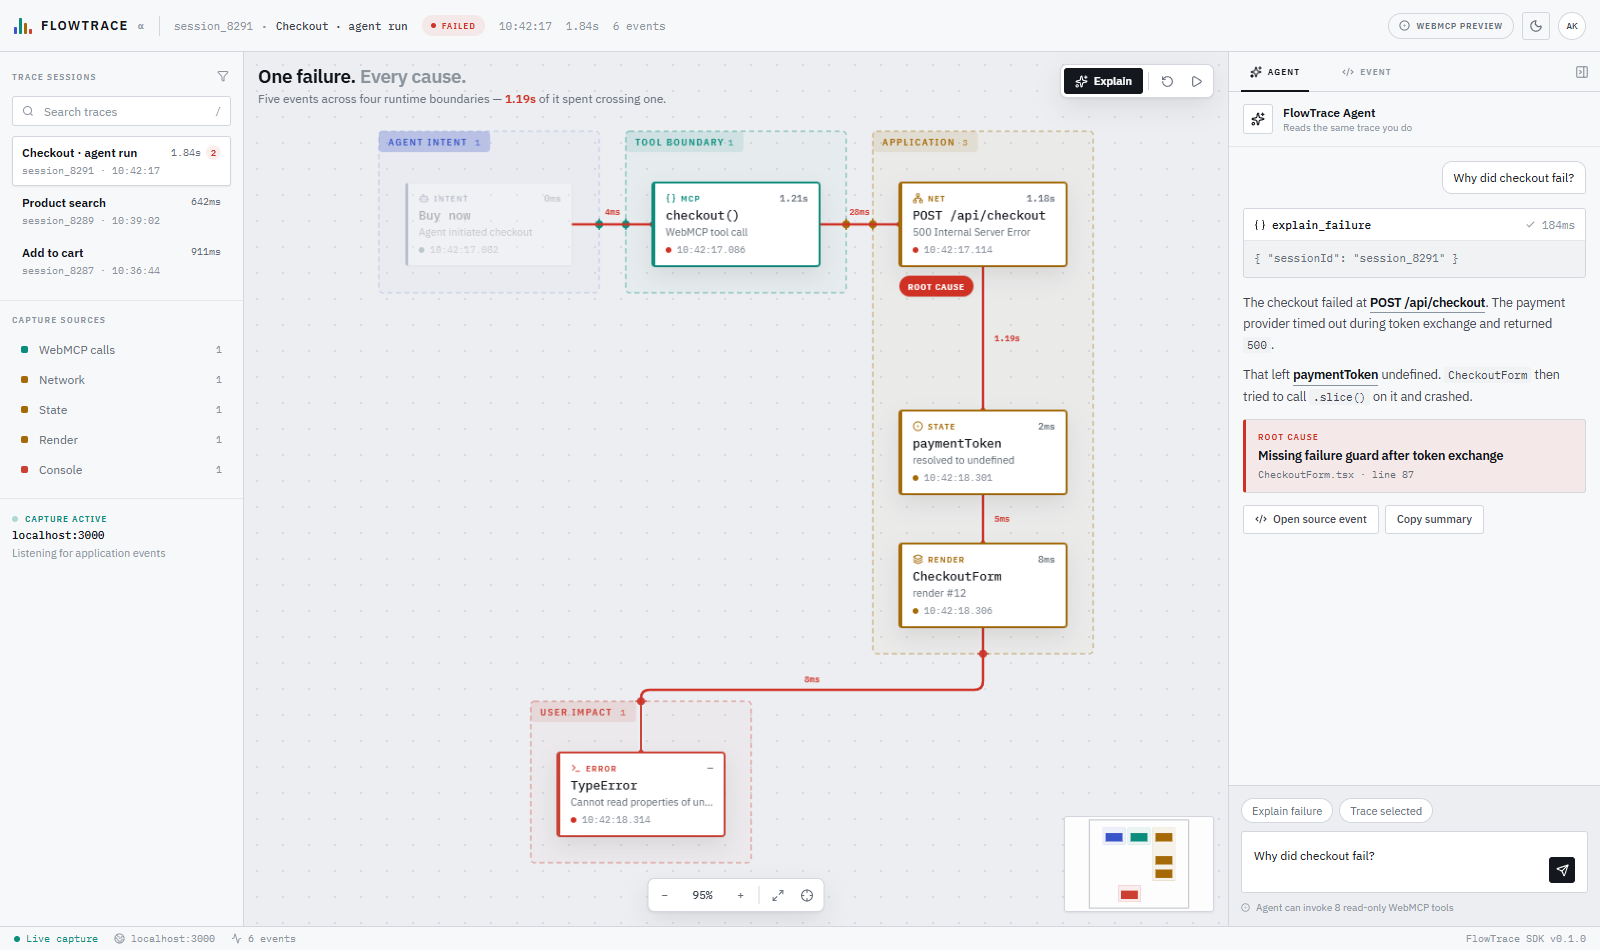
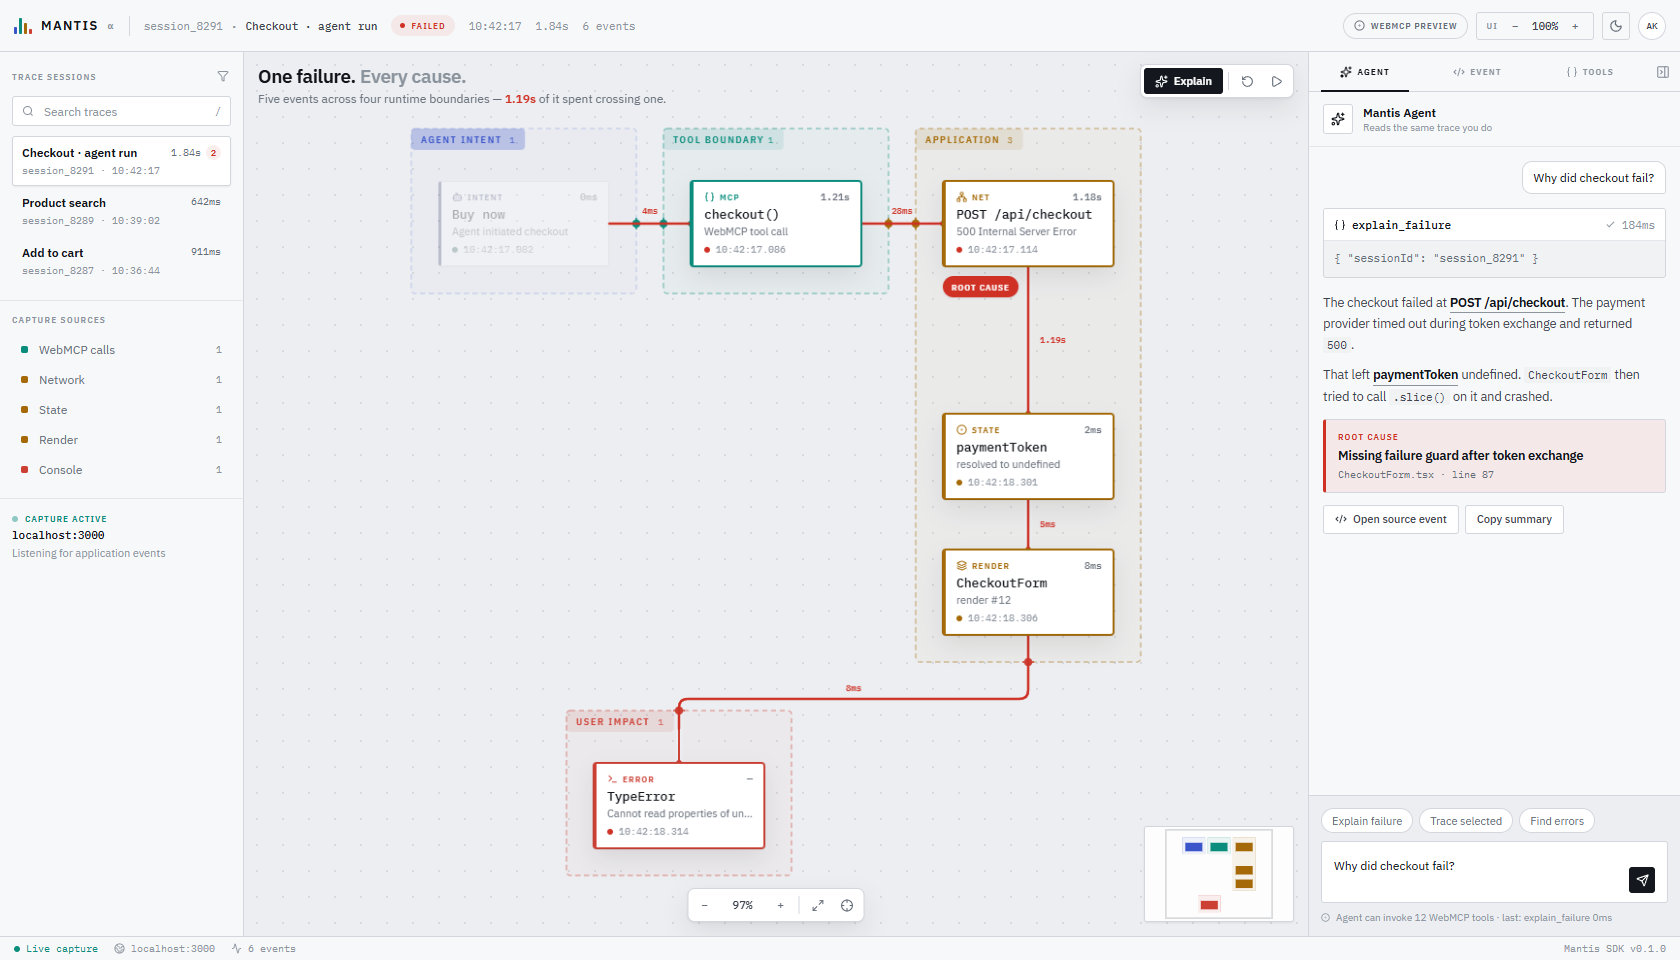
docs: present the repo for readers who arrive cold
Leads with the problem, the live demo and a screenshot, then the WebMCP surface
— which is the point of the project and was buried three sections down.

Corrects stale facts the rename and the WebMCP work left behind: twelve tools,
not eight, and no longer read-only now that four of them write UI state.
Regenerates all three screenshots, which still carried the old branding, and
adds a file-by-file map so the interesting code is findable.

diff --git a/README.md b/README.md
@@ -1,35 +1,51 @@
+<div align="center">
+
 # Mantis
 
 ### A shared debugging environment for humans and agents
 
-Mantis turns disconnected browser telemetry into one causal graph. Developers get a visual timeline; AI agents get structured, read-only WebMCP tools over the exact same trace.
+**[▶ Live demo](https://flowtrace-mu.vercel.app)** · [WebMCP tools](#the-webmcp-surface) · [How the integration works](#how-the-integration-works) · [Evals](#evals)
 
-![The Mantis canvas](preview-dark.png)
+[![WebMCP](https://img.shields.io/badge/WebMCP-12_tools-0a8d7d)](#the-webmcp-surface)
+[![Tests](https://img.shields.io/badge/tests-24_passing-3a54c9)](#evals)
+[![License](https://img.shields.io/badge/license-MIT-666)](LICENSE)
 
-When an agent calls `explain_failure`, Mantis returns machine-readable causes and simultaneously focuses those events in the UI:
+</div>
+
+---
+
+When an agent breaks your app, it can see its own tool call and nothing else. The
+network request it triggered, the state that went undefined, the component that
+crashed — all invisible. You get a screenshot and a shrug.
+
+Mantis turns disconnected browser telemetry into one causal graph. Developers get
+a spatial canvas; agents get the exact same trace through WebMCP.
 
 ```text
 WebMCP checkout() → POST /api/checkout → HTTP 500
                   → paymentToken undefined → CheckoutForm crash
 ```
 
-## What is working
+![The Mantis canvas, with the agent's causal chain lit](preview-dark.png)
 
-- Interactive causal graph spanning agent intent, WebMCP, network, state, render, and console events
-- Synchronized agent/UI focus through stable event IDs and `mantis:focus` browser events
-- Eight real WebMCP tools registered with `document.modelContext.registerTool`
-- Built-in checkout-failure demo with replay, source filters, event inspection, and agent explanation
-- Read-only tool annotations and strict JSON Schemas
-- Browser-safe preview API for environments where experimental WebMCP is unavailable
-- Light and dark themes that follow the OS until you pick one, then remember the choice
-- An interface scale (Alt +, Alt −, Alt 0) that resizes the whole shell independently of the canvas's own zoom, and re-frames the trace when it changes
-- A spatial canvas you can pan, zoom, and rearrange: runtime boundaries are drawn as enclosures, and dragging a node grows its boundary rather than escaping it
-- Boundary ports — every hop that crosses a runtime boundary punches through the enclosure wall at a marked port, carrying the latency of that crossing
-- Responsive, keyboard-focusable developer interface
+## The idea
 
-## WebMCP tools
+Mantis's claim is that it correlates causality **across runtime boundaries**, so
+the canvas draws those boundaries as physical enclosures. Every hop that crosses
+one punches through the enclosure wall at a marked **port**, carrying the latency
+of that crossing. Boundary-crossing stops being a label and becomes something you
+can see.
 
-### Read-only (`readOnlyHint: true`)
+Colour follows the boundary, not the event type: a temperature ramp from agent
+intent (cool) to user impact (hot), so a failure literally arrives at the warm
+end of the canvas.
+
+## The WebMCP surface
+
+Twelve tools registered through `document.modelContext`, split by what they are
+allowed to do.
+
+### Read-only — `readOnlyHint: true`
 
 | Tool | Purpose |
 | --- | --- |
@@ -42,7 +58,7 @@ WebMCP checkout() → POST /api/checkout → HTTP 500
 | `filter_events` | Filter by network, console, WebMCP, state, render, or user events |
 | `inspect_webmcp_call` | Inspect an agent tool call and everything it triggered |
 
-### Writes UI state (`readOnlyHint: false`)
+### Writes UI state — `readOnlyHint: false`
 
 | Tool | Purpose |
 | --- | --- |
@@ -51,14 +67,21 @@ WebMCP checkout() → POST /api/checkout → HTTP 500
 | `frame_trace` | Fit the causal graph to view, or restore the authored layout |
 | `replay_session` | Step the canvas through a session so the failure unfolds |
 
-Every tool whose result is built from captured console or network payloads also
-carries `untrustedContentHint` — that data is authored by the page under test,
-not by Mantis, and downstream consumers should treat it accordingly.
+An agent can drive the workspace, not just read it.
 
-A declarative tool is registered too: the trace search box carries `toolname`,
+Every tool whose result is built from captured console or network payloads also
+carries `untrustedContentHint`. That data is authored by the page under test, not
+by Mantis, and downstream consumers should treat it accordingly.
+
+A **declarative** tool is registered too: the trace search box carries `toolname`,
 `tooldescription` and `toolparamdescription`, so the browser can drive the form
 directly.
 
+![The live tool registry](preview-tools.png)
+
+The **Tools** tab reads live from `getTools()` and refreshes on `toolchange`, so
+it shows what the browser actually has registered rather than what this repo
+intends. Each tool displays its annotations and can be run from the panel.
 
 ## How the integration works
 
@@ -73,15 +96,15 @@ return {
 };
 ```
 
-Tools are registered with an `AbortController` so they unregister cleanly, and
-`execute` receives a signal so long calls can be cancelled:
+Tools register with an `AbortController` so they unregister cleanly, and `execute`
+receives a signal so long calls can be cancelled:
 
 ```ts
 await document.modelContext.registerTool(tool, { signal: controller.signal });
 ```
 
-The application is a client of its own tools. Nothing in the UI reaches into the
-module directly — every action goes through discovery and execution, the same
+**The application is a client of its own tools.** Nothing in the UI reaches into
+the module directly — every action goes through discovery and execution, the same
 path an agent takes:
 
 ```ts
@@ -89,45 +112,58 @@ const tool = (await modelContext().getTools()).find((t) => t.name === "explain_f
 await modelContext().executeTool(tool, { sessionId: "session_8291" });
 ```
 
-Tool execution emits a shared focus event:
+Execution emits a shared focus event, which is what keeps the two views in step:
 
 ```ts
 window.dispatchEvent(new CustomEvent("mantis:focus", {
-  detail: {
-    ids: ["req_checkout_42", "state_payment_07", "error_type_01"],
-    source: "explain_failure"
-  }
+  detail: { ids: ["req_checkout_42", "state_payment_07", "error_type_01"], source: "explain_failure" }
 }));
 ```
 
+Write tools emit `mantis:command`, which the canvas applies — that is how an
+agent moves your view.
+
 ### Enabling WebMCP in the browser
 
-WebMCP is behind an origin trial in Chrome 149. Register the deployed origin at
-the [WebMCP origin trial](https://developer.chrome.com/origintrials/#/register_trial/4163014905550602241)
+WebMCP is behind an origin trial in Chrome 149. Register your origin at the
+[WebMCP origin trial](https://developer.chrome.com/origintrials/#/register_trial/4163014905550602241)
 and paste the token into the commented `<meta http-equiv="origin-trial">` tag in
 [`index.html`](index.html). The status chip then reads **WebMCP live** with the
 registered tool count.
 
-Without a token, Mantis serves the identical surface — `getTools`,
-`executeTool`, annotations and all — through its own model-context shim, and the
-chip reads **WebMCP preview**. The application behaves the same either way; only
-the registration target changes.
-
-The **Tools** tab in the right dock lists what is actually registered, reading
-live from `getTools()` and refreshing on `toolchange`. Each tool shows its
-annotations and can be run from the panel.
+Without a token, Mantis serves the identical surface — `getTools`, `executeTool`,
+annotations and all — through its own model-context shim, and the chip reads
+**WebMCP preview**. The application behaves the same either way; only the
+registration target changes.
 
 ## Evals
 
-`tests/webmcp-evals.spec.ts` follows Chrome's
-[eval guidance](https://developer.chrome.com/docs/ai/webmcp/evals): every tool is
-exercised through the model-context surface, and the suite checks descriptors are
-usable, annotations are honest, the description and output budgets hold, and bad
-input returns a tool error rather than crashing.
+[`tests/webmcp-evals.spec.ts`](tests/webmcp-evals.spec.ts) follows Chrome's
+[eval guidance](https://developer.chrome.com/docs/ai/webmcp/evals). An agent only
+ever sees the descriptor and the result, so both are checked through the
+model-context surface rather than by importing the module:
+
+- every tool is discoverable with a usable descriptor and schema
+- read and write tools are labelled honestly, and untrusted payloads are marked
+- the 500 / 150 / 1.5K description, parameter and output budgets hold
+- bad input returns a tool error rather than crashing
+- write tools actually move the interface
 
 ```bash
-npm test
+npm test      # 24 tests
 ```
+
+## The rest of the interface
+
+- **Spatial canvas** — pan, zoom, and drag nodes. Enclosures are derived from the
+  nodes they hold, so dragging a node grows its boundary instead of escaping it,
+  which keeps the wall crossings the ports are drawn from honest.
+- **Light and dark themes** that follow the OS until you pick one, then remember.
+- **Interface scale** (`Alt +` / `Alt −` / `Alt 0`) resizing the whole shell,
+  separate from the canvas zoom, re-framing the trace when it changes.
+- Responsive down to mobile, visible keyboard focus, reduced motion respected.
+
+![Mantis in the light theme](preview-light.png)
 
 ## Run locally
 
@@ -137,8 +173,6 @@ Requires Node.js 20 or newer.
 npm install
 npm run dev
 ```
-
-Then open `http://localhost:5173`.
 
 For a production check:
 
@@ -150,20 +184,19 @@ npm run preview
 ## Try the demo
 
 1. Open the failed `Checkout · agent run` session.
-2. Select events in the graph to inspect their structured metadata.
-3. Choose **Ask agent to explain** or **Run investigation**.
-4. Mantis invokes `explain_failure({ sessionId: "session_8291" })`.
-5. Watch the agent response and causal graph focus on the same events.
+2. Press **Explain** — the causal chain lights up across four runtime boundaries.
+   The long vertical run is the 1.19s the payment provider spent stalling.
+3. Open the **Tools** tab and run a tool. Watch a write tool move the canvas.
+4. Drag a node and see its enclosure grow to follow it.
 
-In a browser without WebMCP support, the same tools are available from DevTools for development:
+In any browser, the same tools are reachable from DevTools:
 
 ```js
-await window.mantis.invoke("explain_failure", {
-  sessionId: "session_8291"
-});
+await window.mantis.invoke("explain_failure", { sessionId: "session_8291" });
 ```
 
-For native testing, use ChatGPT's in-app browser or enable WebMCP testing in Chrome at `chrome://flags/#enable-webmcp-testing`, then ask the browser agent to list and inspect Mantis sessions.
+For the native path, use ChatGPT's in-app browser or Chrome 149 with WebMCP
+enabled, then ask the browser agent to list and inspect Mantis sessions.
 
 ## Architecture
 
@@ -171,19 +204,30 @@ For native testing, use ChatGPT's in-app browser or enable WebMCP testing in Chr
 Application telemetry
         ↓
 Normalized TraceEvent graph
-        ├──→ React visual debugger (human view)
+        ├──→ React canvas (human view)
         └──→ document.modelContext tools (agent view)
                        ↓
-                mantis:focus
+              mantis:focus / mantis:command
                        ↓
-             synchronized selection
+              synchronized selection
 ```
 
-The current hackathon slice uses a deterministic ecommerce trace so judges can reproduce the complete story. The data boundary is isolated in [`src/data.ts`](src/data.ts), ready to be replaced by a browser SDK or streamed capture source.
+| File | Role |
+| --- | --- |
+| [`src/webmcp.ts`](src/webmcp.ts) | Tool definitions, registration, the MCP envelope, the shim |
+| [`src/useWebMCP.ts`](src/useWebMCP.ts) | React binding: registration lifecycle, discovery, `toolchange` |
+| [`src/canvas.ts`](src/canvas.ts) | Pan, zoom-about-cursor, node dragging, fit-to-view |
+| [`src/layout.ts`](src/layout.ts) | Derived enclosures, right-angle routing, boundary ports |
+| [`src/data.ts`](src/data.ts) | The trace itself — the seam a real capture SDK would replace |
+
+The hackathon slice uses a deterministic ecommerce trace so the whole story is
+reproducible. The data boundary is isolated in `src/data.ts`, ready to be
+replaced by a browser SDK or a streamed capture source.
 
 ## Stack
 
-React 19, TypeScript, Vite, Lucide icons, and the browser-native [WebMCP API](https://webmachinelearning.github.io/webmcp/).
+React 19, TypeScript, Vite, Lucide icons, Playwright, and the browser-native
+[WebMCP API](https://webmachinelearning.github.io/webmcp/).
 
 ## License
 
